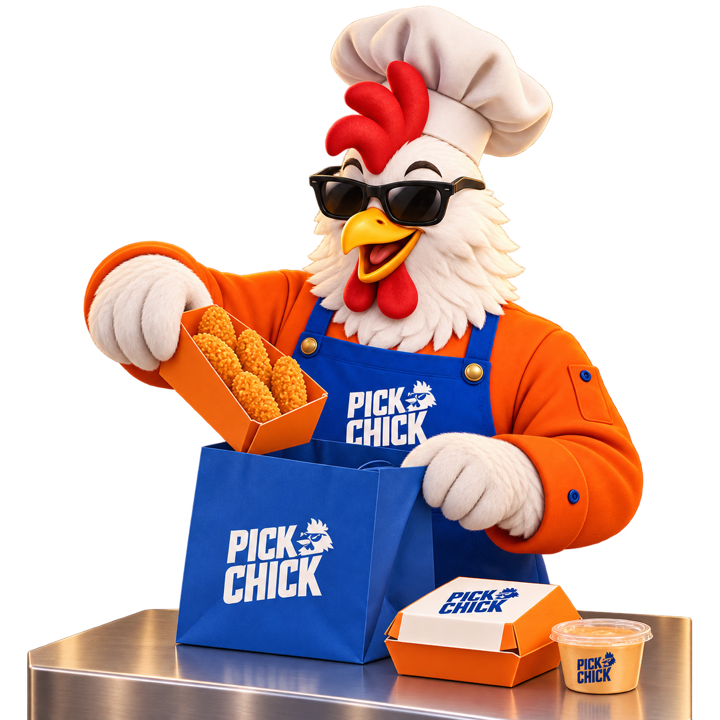
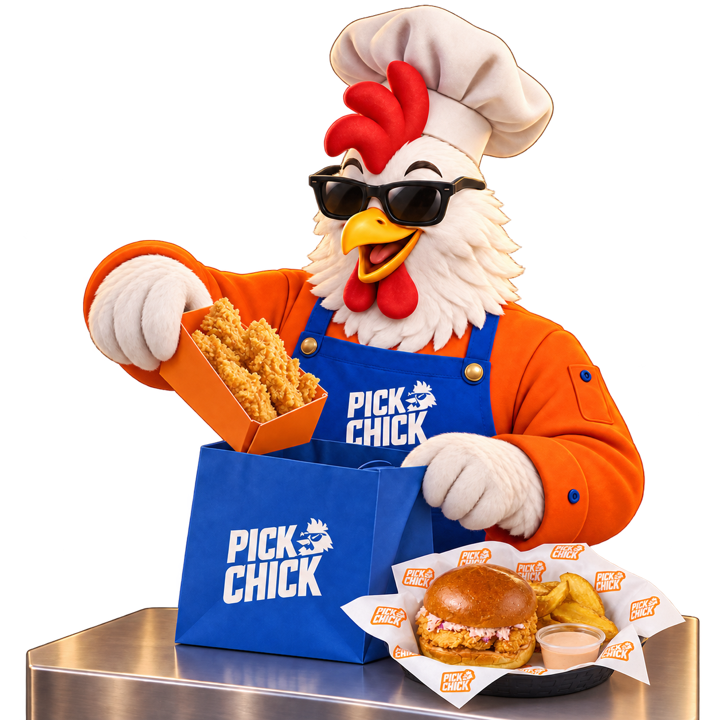
Match order chef scenes to original PickChick products

diff --git a/docs/project-status.md b/docs/project-status.md
@@ -1,5 +1,11 @@
 # PickChick — состояние проекта
 
+### Продукция PickChick в трёх сценах заказа
+
+Три сцены статуса заказа отредактированы через image_gen по оригинальным фото i4.jpg (фингерс), i9.jpg (Burger Combo, коулслоу, соус и Coca-Cola 0,5 л), i20.jpg (дольки). Сохранены персонаж, позы и композиции. В сборке виден наш бургер на фирменной бумаге; в выдаче заменены стандартные фри/стакан на дольки/бутылку из меню. Это декоративные растровые 3D-сцены, не состав конкретного заказа. Код переключения и crossfade240ms не изменён. Три PNG720×720 с alpha; HTTP200 и совпадение хешей всех трёх файлов, 3 теста статусов, iOS Dev bundle проверены. Визуально просмотрены подготовка/выдача393×852 и исходник сборки. Физическая приёмка отдельно; VPS/TestFlight/онлайн-пульт не обновлены.
+
+Источник и проверки: `apps/mobile/assets/order-status/README.md`.
+
 ### Новый цвет кнопки цены
 
 Кнопка цены на страницах товаров получила сливочно-персиковый фон #FFE2C3 и терракотовые цену/иконку #8A3309, в одной палитре с крестиком и настройкой комбо. Нижняя подложка остаётся прозрачной. Контраст 6,61:1. Typecheck, адресные ESLint/Prettier, Impeccable detect и iOS Dev bundle HTTP200 прошли; визуальная проверка Burger Duo 393×852 подтвердила кнопку 345×56. Изменение только цветовое. Физическая приёмка отдельно; VPS/TestFlight/онлайн-пульт не обновлены.

diff --git a/docs/collaboration/handoff.md b/docs/collaboration/handoff.md
@@ -1,5 +1,11 @@
 # Контекст для нового компьютера
 
+## Последнее: order-chef-products
+
+Три сцены статуса заказа отредактированы через image_gen по оригинальным фото i4.jpg (фингерс), i9.jpg (Burger Combo, коулслоу, соус и Coca-Cola 0,5 л), i20.jpg (дольки). Сохранены персонаж, позы и композиции. В сборке виден наш бургер на фирменной бумаге; в выдаче заменены стандартные фри/стакан на дольки/бутылку из меню. Это декоративные растровые 3D-сцены, не состав конкретного заказа. Код переключения и crossfade240ms не изменён. Три PNG720×720 с alpha; HTTP200 и совпадение хешей всех трёх файлов, 3 теста статусов, iOS Dev bundle проверены. Визуально просмотрены подготовка/выдача393×852 и исходник сборки. Физическая приёмка отдельно; VPS/TestFlight/онлайн-пульт не обновлены.
+
+Источник и проверки: `apps/mobile/assets/order-status/README.md`.
+
 ## Последнее: product-price-cream
 
 Кнопка цены на страницах товаров получила сливочно-персиковый фон #FFE2C3 и терракотовые цену/иконку #8A3309, в одной палитре с крестиком и настройкой комбо. Нижняя подложка остаётся прозрачной. Контраст 6,61:1. Typecheck, адресные ESLint/Prettier, Impeccable detect и iOS Dev bundle HTTP200 прошли; визуальная проверка Burger Duo 393×852 подтвердила кнопку 345×56. Изменение только цветовое. Физическая приёмка отдельно; VPS/TestFlight/онлайн-пульт не обновлены.

diff --git a/apps/mobile/assets/order-status/README.md b/apps/mobile/assets/order-status/README.md
@@ -16,3 +16,9 @@ RGBA, 720 px по длинной стороне, прозрачный фон. С
 владельца персонаж неподвижен: нет циклов, покачивания, переноса и вращения.
 При смене серверного этапа Reanimated делает только crossfade 240 ms;
 при Reduce Motion изображение переключается сразу.
+
+## Продукция по оригинальным фотографиям - 27 сентября
+
+Три сцены статуса заказа отредактированы через image_gen по оригинальным фото i4.jpg (фингерс), i9.jpg (Burger Combo, коулслоу, соус и Coca-Cola 0,5 л), i20.jpg (дольки). Сохранены персонаж, позы и композиции. В сборке виден наш бургер на фирменной бумаге; в выдаче заменены стандартные фри/стакан на дольки/бутылку из меню. Это декоративные растровые 3D-сцены, не состав конкретного заказа. Код переключения и crossfade240ms не изменён. Три PNG720×720 с alpha; HTTP200 и совпадение хешей всех трёх файлов, 3 теста статусов, iOS Dev bundle проверены. Визуально просмотрены подготовка/выдача393×852 и исходник сборки. Физическая приёмка отдельно; VPS/TestFlight/онлайн-пульт не обновлены.
+
+Оригинальные референсы: `design/prototype/assets/mockup/`. Более ранняя HD-ретушь не использовалась как источник состава бургера: исходник Burger Combo показывает коулслоу. Сцены сохраняют прежние имена файлов, поэтому не требуют изменения путей приложения.
